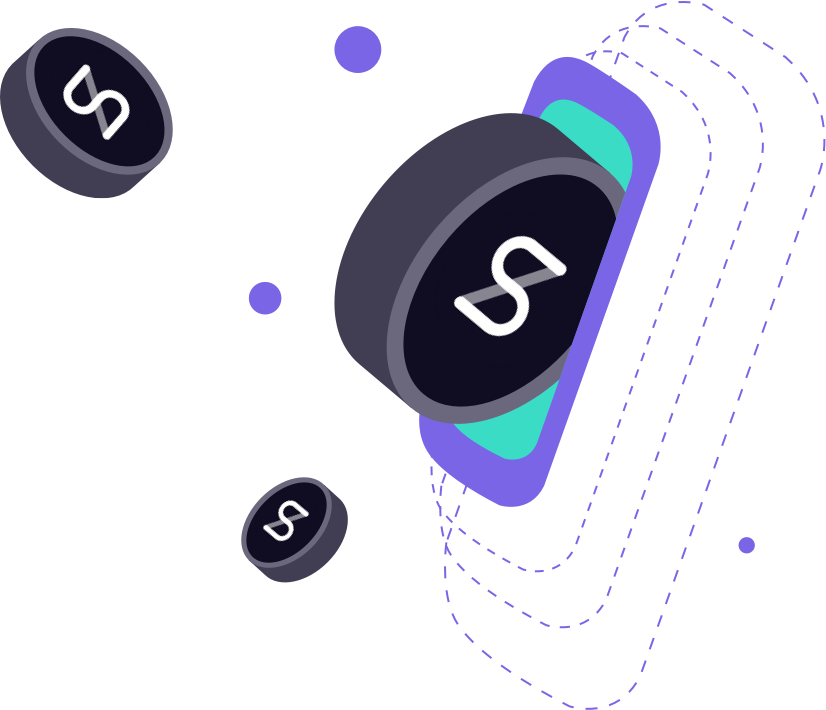
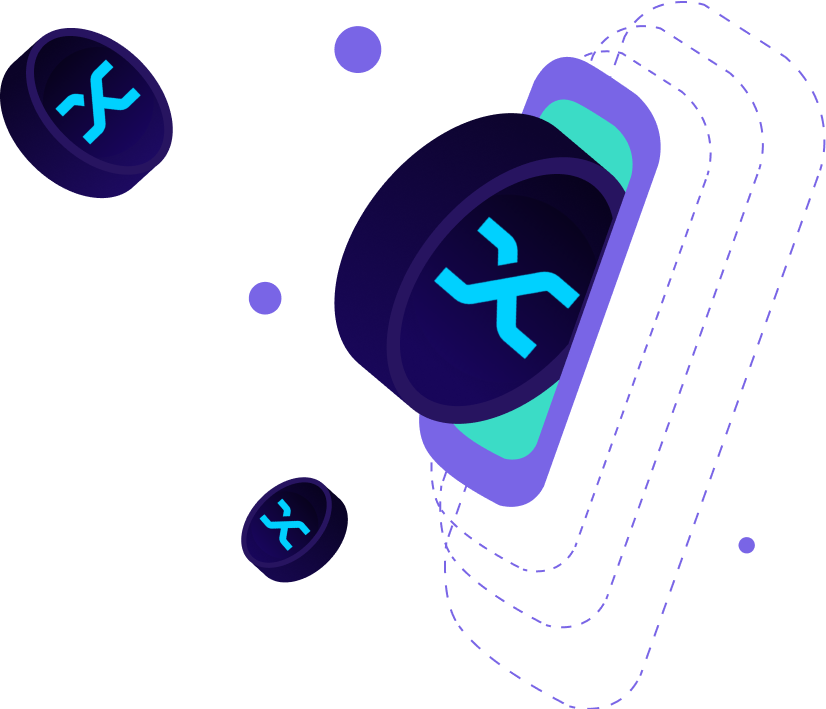
remove MKR coin Add KNC coin

diff --git a/js/main.js b/js/main.js
@@ -298,7 +298,7 @@
                 'crv/cad': '/page#/advancedTrade/61',
                 'aave/cad': '/page#/advancedTrade/62',
                 'snx/cad': '/page#/advancedTrade/64',
-                'mkr/cad': '/page#/advancedTrade/63',
+                'knc/cad': '/page#/advancedTrade/63',
             }
 
             let index = 1;

diff --git a/sell-knc.php b/sell-knc.php
@@ -1,6 +1,6 @@
 <?php
 /**
- * Template Name: Sell MKR page
+ * Template Name: Sell KNC page
  *
  * @link https://developer.wordpress.org/themes/basics/template-hierarchy/
  *
@@ -8,8 +8,8 @@
  */
 
 $args = [
-	'name' => 'Maker',
-	'ticker' => 'MKR',
+	'name' => 'Kyber Network',
+	'ticker' => 'KNC',
 ];
 get_template_part('template-parts/sell', 'coin', $args);
 ?>

diff --git a/buy-knc.php b/buy-knc.php
@@ -1,6 +1,6 @@
 <?php
 /**
- * Template Name: Buy MKR page
+ * Template Name: Buy KNC page
  *
  * @link https://developer.wordpress.org/themes/basics/template-hierarchy/
  *
@@ -8,8 +8,8 @@
  */
 
 $args = [
-	'name' => 'Maker',
-	'ticker' => 'MKR',
+	'name' => 'Kyber Network',
+	'ticker' => 'KNC',
 ];
 get_template_part('template-parts/buy', 'coin', $args);
 ?>
